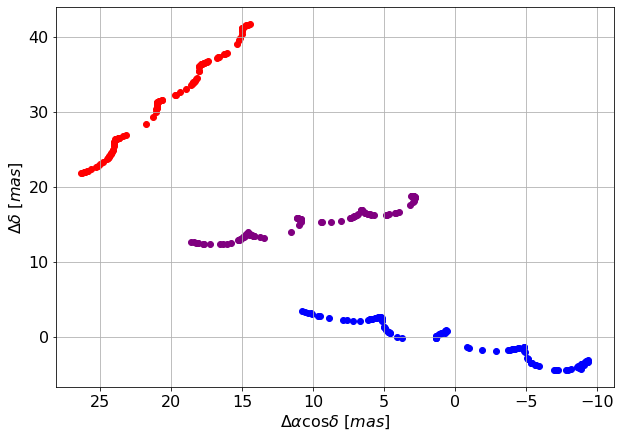
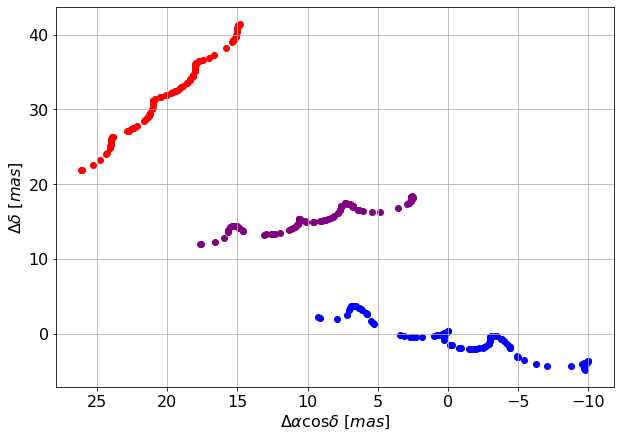
update in docs
created a more interesting example for blending docs

diff --git a/docs/blending.rst b/docs/blending.rst
@@ -189,7 +189,7 @@ Let's now replace the primary star track with an anomalous one - like that of a 
   params.vtheta=1.5 #[rad]
   params.vomega=5.6 #[rad]
   # time of some periapse passage
-  params.tperi=2016 #[jyear]
+  params.tperi=2016.5 #[jyear]
 
 The figure we'll create now will again show the tracks of both light sources (blue for the binary, red for the blend star) and the blended track (purple).
 
@@ -236,29 +236,29 @@ Now, just like before, we create some mock observations and fit them:
 
 ::
 
-  {'vis_periods': 78,
+  {'vis_periods': 79,
    'n_obs': 100,
-   'drac': -1.0506765305265284,
-   'drac_error': 0.052202456693277374,
-   'ddec': -0.865301284730357,
-   'ddec_error': 0.05206316638442878,
-   'drac_ddec_corr': 0.0027540145652614947,
-   'parallax': 1.029741008326703,
-   'parallax_error': 0.05747948824288956,
-   'drac_parallax_corr': -0.08057029092578415,
-   'ddec_parallax_corr': -0.0341815144716097,
-   'pmrac': -5.012751293992229,
-   'pmrac_error': 0.042240756073918286,
-   'drac_pmrac_corr': 0.1181612974621118,
-   'ddec_pmrac_corr': 0.004540923741403877,
-   'parallax_pmrac_corr': -0.13284735365296504,
-   'pmdec': -2.0450347197306935,
-   'pmdec_error': 0.042039192112944254,
-   'drac_pmdec_corr': 0.00729850206584718,
-   'ddec_pmdec_corr': 0.11135819410355369,
-   'parallax_pmdec_corr': -0.09058552453993322,
-   'pmrac_pmdec_corr': 0.012034047214395854,
-   'UWE': 5.172401625329712,
+   'drac': -1.0328761497668713,
+   'drac_error': 0.05277611435751417,
+   'ddec': -0.8066522549708861,
+   'ddec_error': 0.05303418028829623,
+   'drac_ddec_corr': -0.022698559981571824,
+   'parallax': 0.9640053358247735,
+   'parallax_error': 0.059291633895102336,
+   'drac_parallax_corr': 0.1357517028428659,
+   'ddec_parallax_corr': -0.1672064475526002,
+   'pmrac': -5.142385044250228,
+   'pmrac_error': 0.049956232914728456,
+   'drac_pmrac_corr': -0.06790849663914658,
+   'ddec_pmrac_corr': 0.01640792862233423,
+   'parallax_pmrac_corr': -0.09812976032023278,
+   'pmdec': -2.127450993583809,
+   'pmdec_error': 0.0498818207873237,
+   'drac_pmdec_corr': -0.011088877492478874,
+   'ddec_pmdec_corr': -0.04074436853875226,
+   'parallax_pmdec_corr': -0.08168499739052537,
+   'pmrac_pmdec_corr': 0.008015729215691094,
+   'UWE': 5.220736204433541,
    'ra_ref': 160,
    'dec_ref': -50}
 
@@ -270,29 +270,29 @@ Now, just like before, we create some mock observations and fit them:
 
 ::
 
-  {'vis_periods': 78,
+  {'vis_periods': 79,
    'n_obs': 100,
-   'drac': 9.465541639169418,
-   'drac_error': 0.0314699914789254,
-   'ddec': 15.444689659418092,
-   'ddec_error': 0.031386021008755434,
-   'drac_ddec_corr': 0.0027540145652614947,
-   'parallax': 0.789246637698297,
-   'parallax_error': 0.034651223712421075,
-   'drac_parallax_corr': -0.08057029092578416,
-   'ddec_parallax_corr': -0.03418151447160969,
-   'pmrac': -4.014075917693189,
-   'pmrac_error': 0.025464629787830737,
-   'drac_pmrac_corr': 0.11816129746211179,
-   'ddec_pmrac_corr': 0.004540923741403877,
-   'parallax_pmrac_corr': -0.13284735365296507,
-   'pmdec': 1.4960944931578928,
-   'pmdec_error': 0.025343117956087232,
-   'drac_pmdec_corr': 0.007298502065847179,
-   'ddec_pmdec_corr': 0.11135819410355369,
-   'parallax_pmdec_corr': -0.09058552453993322,
-   'pmrac_pmdec_corr': 0.012034047214395856,
-   'UWE': 3.118156603837922,
+   'drac': 9.480364577180207,
+   'drac_error': 0.030681620165243218,
+   'ddec': 15.490416173603831,
+   'ddec_error': 0.03083164789961199,
+   'drac_ddec_corr': -0.02269855998157182,
+   'parallax': 0.7305642955096495,
+   'parallax_error': 0.03446944535974882,
+   'drac_parallax_corr': 0.13575170284286586,
+   'ddec_parallax_corr': -0.1672064475526002,
+   'pmrac': -4.0733751518943695,
+   'pmrac_error': 0.029042270008608376,
+   'drac_pmrac_corr': -0.06790849663914658,
+   'ddec_pmrac_corr': 0.01640792862233423,
+   'parallax_pmrac_corr': -0.0981297603202328,
+   'pmdec': 1.4259221220040477,
+   'pmdec_error': 0.02899901019957328,
+   'drac_pmdec_corr': -0.011088877492478874,
+   'ddec_pmdec_corr': -0.040744368538752254,
+   'parallax_pmdec_corr': -0.08168499739052539,
+   'pmrac_pmdec_corr': 0.008015729215691094,
+   'UWE': 3.035097357154283,
    'ra_ref': 160,
    'dec_ref': -50}
 
